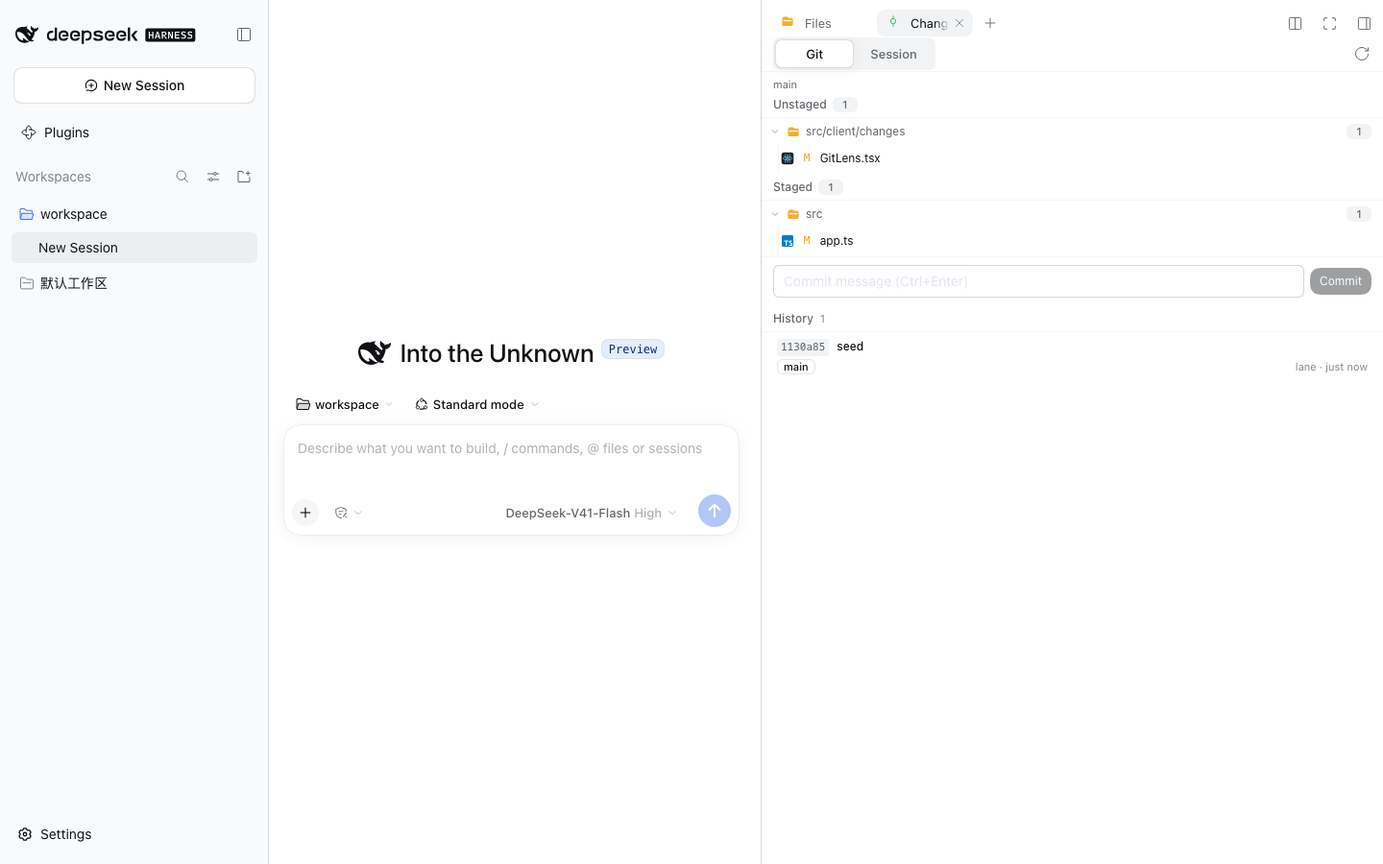
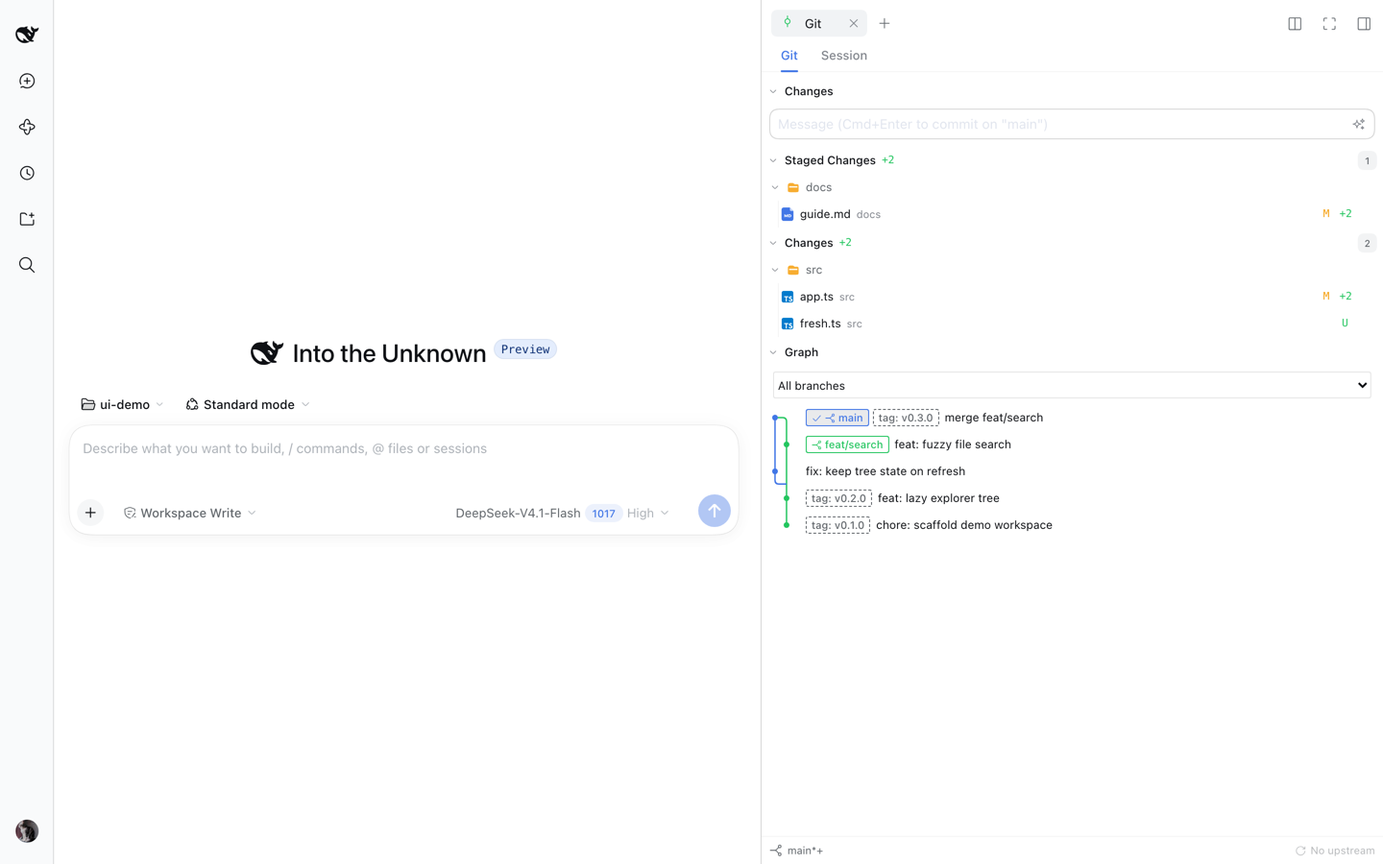
chore(release): prepare v0.28.1
- bump package.json / dsh.plugin.json / SIDEBAR_SERVICE_VERSION to 0.28.1
- CHANGELOG: 未发布 → v0.28.1; CHANGELOG_EN gains the v0.28.1 summary
- README / README_ZH: install commands target 0.28.1; Recent Updates
  trimmed to v0.28.1 / v0.28.0 / v0.27.0; Git screenshot alt + tags note
- refresh docs/screenshots/files-tree.png and changes-tree.png from a
  neutral demo workspace (git colors + tag pills in the commit graph)
- AGENTS + external-plugin-guide: current stable version is v0.28.1

diff --git a/src/client/service.ts b/src/client/service.ts
@@ -836,7 +836,7 @@ export function matchUrlTarget(tabs: readonly TabDescriptor[], url: URL): TabDes
  * The plugin version this service instance reports. Keep in lockstep with
  * `package.json`'s version — `tests/service.spec.ts` asserts the pair.
  */
-export const SIDEBAR_SERVICE_VERSION = '0.28.0'
+export const SIDEBAR_SERVICE_VERSION = '0.28.1'
 
 /**
  * Monotonic capability list consumers use to gate new API usage (features

diff --git a/README.md b/README.md
@@ -22,7 +22,7 @@
 
 | | |
 |---|---|
-| **🗂 File Management**<br/>Lazy-loading tree, git status colors, live directory watch, global search, drag-and-drop upload, multi-select batch actions, dual-source "Open with" menu.<br/><img alt="File tree with git colors" src="./docs/screenshots/files-tree.png" /><br/><img alt="Context menu: Open with + Zip and download" src="./docs/screenshots/files-menu-openwith.png" /> | **🌿 Git**<br/>Source Control (Merge / Staged / Changes groups, message box with Generate, branch + sync footer) plus a this-session AI-changes lens, with a **read-only commit graph** (lanes, ref badges, branch filter, commit details) in one tab.<br/><img alt="Git: hierarchical tree" src="./docs/screenshots/changes-tree.png" /> |
+| **🗂 File Management**<br/>Lazy-loading tree, git status colors, live directory watch, global search, drag-and-drop upload, multi-select batch actions, dual-source "Open with" menu.<br/><img alt="File tree with git colors" src="./docs/screenshots/files-tree.png" /><br/><img alt="Context menu: Open with + Zip and download" src="./docs/screenshots/files-menu-openwith.png" /> | **🌿 Git**<br/>Source Control (Merge / Staged / Changes groups, message box with Generate, branch + sync footer) plus a this-session AI-changes lens, with a **read-only commit graph** (lanes, branch and tag badges, branch filter, commit details) in one tab.<br/><img alt="Git: changes and commit graph with tags" src="./docs/screenshots/changes-tree.png" /> |
 | **📝 Editable Editor & Previews**<br/>An editable CodeMirror (the stock preview is read-only), Markdown + Mermaid + floating outline, sandboxed HTML preview, `.jsonl` record cards, paged preview for huge files, streaming transfers with no size caps.<br/><img alt="Markdown + Mermaid preview" src="https://github.com/user-attachments/assets/fe0e5182-55bb-45cc-b98b-a2877c2bdd38" /> | **🧩 Tasks**<br/>Live subagent topology (workflow graph / tree modes) + background task list: exit codes, live output, force-kill.<br/><img alt="Tasks: subagent topology" src="https://github.com/user-attachments/assets/dcd8ed2f-59fa-405b-937b-2d250f5034dd" /> |
 | **💬 Side Chat (beta)**<br/>Codex-style side threads: inherit the full parent context and run independently, realtime push, visible & revocable queue, per-thread model selection, one-click promotion to a top-level session.<br/><img alt="Side Chat" src="https://github.com/user-attachments/assets/3a338c36-f5de-4000-95f3-4b1cd04f60fc" /> | **🖥 Bottom Workbench**<br/>A self-drawn bottom panel that coexists with the native right sidebar: drag-to-split panes, multiple terminal tabs, per-session persisted layout.<br/><img alt="Dual workbench" src="https://github.com/user-attachments/assets/dfdb875e-a1a8-4d4b-8340-353736b1708f" /> |
 
@@ -44,14 +44,14 @@ dsh plugin --profile web add dsh-better-sidebar@latest
 
 Then **hard-refresh the browser** (Cmd/Ctrl+Shift+R). Requires DSH **0.2.1-rc.1+**.
 
-> **Compatibility warning — match the plugin to the host line.** As of 2026-10-26, DSH's npm `latest` is **0.2.1-rc.2**, so the command above installs the compatible v0.28.0. Hosts still on **0.2.0-rc.2** must pin `dsh-better-sidebar@0.26.1` (and should upgrade the host to `0.2.1-rc.2` first); DSH 0.2.1-alpha.5 users must pin `dsh-better-sidebar@0.28.0-alpha.0`. The marketplace installer picks the plugin's `latest` regardless of host version, so an old host gets a version-rejection error — upgrade the host or pin the version explicitly. The two packages' `latest` tags are independent.
+> **Compatibility warning — match the plugin to the host line.** As of 2026-10-26, DSH's npm `latest` is **0.2.1-rc.2**, so the command above installs the compatible v0.28.1. Hosts still on **0.2.0-rc.2** must pin `dsh-better-sidebar@0.26.1` (and should upgrade the host to `0.2.1-rc.2` first); DSH 0.2.1-alpha.5 users must pin `dsh-better-sidebar@0.28.0-alpha.0`. The marketplace installer picks the plugin's `latest` regardless of host version, so an old host gets a version-rejection error — upgrade the host or pin the version explicitly. The two packages' `latest` tags are independent.
 
 <details>
 <summary><b>Pick the plugin version for your DSH version</b></summary>
 
 | Your DSH version | Install command |
 | --- | --- |
-| **0.2.1-rc.1+** | `dsh plugin --profile web add dsh-better-sidebar@0.28.0` |
+| **0.2.1-rc.1+** | `dsh plugin --profile web add dsh-better-sidebar@0.28.1` |
 | **0.2.1-alpha.5** | `dsh plugin --profile web add dsh-better-sidebar@0.28.0-alpha.0` |
 | **0.2.0-rc.2** | `dsh plugin --profile web add dsh-better-sidebar@0.26.1` |
 | **0.2.0-rc.1** | `dsh plugin --profile web add dsh-better-sidebar@0.24.1` |
@@ -70,12 +70,12 @@ Always pin **exact versions** for older releases (`latest` moves forward with ea
 
 ```text
 Install the dsh-better-sidebar plugin (a sidebar workbench for DSH):
-1. Confirm DSH is 0.2.1-rc.1 or newer, then run dsh plugin --profile web add dsh-better-sidebar@0.28.0
+1. Confirm DSH is 0.2.1-rc.1 or newer, then run dsh plugin --profile web add dsh-better-sidebar@0.28.1
 2. Remind me to hard-refresh the browser (Cmd/Ctrl+Shift+R) afterwards
 If something fails, check the FAQ table in https://github.com/omdsh-dev/DSH-better-sidebar README first.
 ```
 
-**One-line script** — clone this repo and run `bash scripts/install.sh 0.28.0` (macOS / Linux / Windows Git Bash; `./scripts/install.ps1 -Version 0.28.0` for native Windows). It handles installation + bundle registration.
+**One-line script** — clone this repo and run `bash scripts/install.sh 0.28.1` (macOS / Linux / Windows Git Bash; `./scripts/install.ps1 -Version 0.28.1` for native Windows). It handles installation + bundle registration.
 
 **Updating**: just re-run the install command, then hard-refresh the browser.
 
@@ -92,27 +92,27 @@ If something fails, check the FAQ table in https://github.com/omdsh-dev/DSH-bett
 | **Two sidebars** on the page | Double mounting. Remove the legacy manual mount line (`- insert: ... better-sidebar ...`) from `~/.dsh/profiles/web/cordis.patch.yml`; aggregate packages mounting this package under a different id are auto-yielded, no action needed. |
 | Settings values gone after upgrade | Since DSH 0.1.7, preferences live on this plugin's mount row in the profile (default entry id `better-sidebar`). The plugin migrates your old `settings.yaml` values once on first start and never overwrites newer values. |
 | Terminal unavailable | Terminals are provided by **DSH itself** (this plugin ships no PTY) — see DSH docs; "host provides no terminal capability" in the bottom terminal means this deployment has no terminal controller mounted. |
-| `dsh: command not found` | Install DSH first; or use `npx -y --package @deepseek-ai/dsh@0.2.1-rc.1 dsh plugin --profile web add dsh-better-sidebar@0.28.0`. |
+| `dsh: command not found` | Install DSH first; or use `npx -y --package @deepseek-ai/dsh@0.2.1-rc.1 dsh plugin --profile web add dsh-better-sidebar@0.28.1`. |
 
 </details>
 
 ## 🆕 Recent Updates
 
+**v0.28.1 — UX and reliability patch**
+
+- **Silent wrong-file writes are gone**: tab reconciliation now covers tabs in background sessions, and worktree sessions use one address base — a renamed/deleted file is no longer re-created on the next save, and a chat link never opens a same-named file from another checkout
+- **Host crash guard**: pathological `git status` output is capped with a latch and a process-tree kill, turning "host dies with `RangeError`" into one failed SCM refresh
+- **Git page**: histories with more than 1,000 branches load again; tags now decorate commits, rows and details, and tag changes invalidate pagination
+- **Editor**: saving after an mtime-only change no longer deadlocks on `fs-conflict`; the reading position survives tab re-seating; “Add to conversation” lands as a compact reference chip and never flattens earlier chips
+- **Markdown links**: local destinations normalize Windows backslashes, so `C:\ws\_analysis\report.md` opens instead of a bare ENOENT
+- **Sidebar**: the bottom-workbench toggle stays visible while the right panel is open; the macOS dock fallback avoids the traffic lights; a content-stable tab scope ends needless full-file re-reads; closing a side-chat tab archives its session
+
 **v0.28.0 — stable plugin release for DSH 0.2.1-rc.1+**
 
 - Move all 13 DSH peer floors to `^0.2.1-rc.1`; retain the alpha.0 functionality without runtime changes
 - The upstream alpha.5 → rc.1 full-tree diff contains 355 files, all `package.json`; no source changes
-- v0.28.0 will replace this plugin’s npm `latest`, even while DSH’s `latest` remains 0.2.0-rc.2; old hosts must pin the versions in the table above
-- RC validation is pending; see the [RC adaptation record](./docs/plans/2026-10-17-dsh-0.2.1-rc.1-adaptation.md). Earlier alpha test counts are not RC evidence
-
-**v0.28.0-alpha.0 (prerelease)**
-
-- Adapt to DSH **0.2.1-alpha.5+**: use native Connection admission for HTTP/WS and remove the retired invariant companion and dependency
-- Files, Git, terminals and newly created side chats follow the session’s current working directory
-- The commit graph fills the available Git-panel height and adapts to the diff preview and window size
-- Optional dsh-context diagnostic shortcuts in agent details, background-job output windows and the session header appear only when the Context entry is available
-- **DSH 0.2.0-rc.2 users stay on npm-published v0.26.1**; v0.27.0 has not been published. Use the explicit alpha version above, not `latest`
-- Validation history: [DSH alpha.5 adaptation record](./docs/plans/2026-10-16-dsh-0.2.1-alpha.5-adaptation.md) (before the latest dev integration; not the final release test counts)
+- DSH 0.2.0-rc.2 hosts stay on plugin v0.26.1; DSH 0.2.1-alpha.5 hosts stay on v0.28.0-alpha.0
+- Validation: [RC adaptation record](./docs/plans/2026-10-17-dsh-0.2.1-rc.1-adaptation.md)
 
 **v0.27.0** - full release history at [Releases](https://github.com/omdsh-dev/DSH-better-sidebar/releases) · [CHANGELOG](./CHANGELOG_EN.md)
 
@@ -120,11 +120,6 @@ If something fails, check the FAQ table in https://github.com/omdsh-dev/DSH-bett
 - **Accurate change tracking**: separate staged/unstaged counts, nested-repository discovery, session-relative paths, PTC file operations and long polling
 - **Selection stays in place**: fixed the integration regression that displaced selected files and drew stray borders; added real-host layout coverage
 - **Side Chat**: new child sessions seed from the latest summarizing compaction instead of copying the full parent log
-
-**v0.26.1** — full release history at [Releases](https://github.com/omdsh-dev/DSH-better-sidebar/releases) · [CHANGELOG](./CHANGELOG_EN.md)
-
-- ⚡ **Fixed the steady-state cost behind "fine on 0.24, then it got slow"** (community reports: the sidebar turns laggy after being open a long time, DSH turns laggy after many turns, a restart clears it for a while; an artifact-level A/B puts the line at v0.25.0): both 500 ms timers are now visibility-gated (the host right-panel state is one shared module-level poller; the blank-session fallback only runs while it actually renders), the per-tab 5 s session-root poll became **one per session and only while visible**, the file-tree watch and side-chat push stop when parked, `keepMounted` keeps its semantics while every cache/registry is now bounded, and the host cwd resolver gained in-flight dedupe with a 3 s → 15 s TTL
-- 📊 Measured in the real mount lane (4 visited tabs, 15 s idle window): live 500 ms timers **3 → 1**, live 5 s timers **5 → 0**, `session.cwd` requests **15 → 0**, hit tests **1,620 → 0**, forced layouts **5,190 → 30**
 
 ## 🔌 Plugin Ecosystem
 

diff --git a/README_ZH.md b/README_ZH.md
@@ -22,7 +22,7 @@
 
 | | |
 |---|---|
-| **🗂 文件管理**<br/>懒加载目录树、Git 变更着色、实时 watch 刷新、全局搜索、拖拽上传、多选批量操作、「打开方式」双源菜单。<br/><img alt="文件树（Git 着色）" src="./docs/screenshots/files-tree.png" /><br/><img alt="右键菜单：打开方式 + 打包下载" src="./docs/screenshots/files-menu-openwith.png" /> | **🌿 Git**<br/>Source Control（Merge / Staged / Changes 三组、带 Generate 的消息框、分支与同步底栏）+ 本轮 AI 改动视角合一，并在同一页签内给出**只读提交图**（泳道、引用徽章、分支筛选、提交详情）。<br/><img alt="Git：层级树" src="./docs/screenshots/changes-tree.png" /> |
+| **🗂 文件管理**<br/>懒加载目录树、Git 变更着色、实时 watch 刷新、全局搜索、拖拽上传、多选批量操作、「打开方式」双源菜单。<br/><img alt="文件树（Git 着色）" src="./docs/screenshots/files-tree.png" /><br/><img alt="右键菜单：打开方式 + 打包下载" src="./docs/screenshots/files-menu-openwith.png" /> | **🌿 Git**<br/>Source Control（Merge / Staged / Changes 三组、带 Generate 的消息框、分支与同步底栏）+ 本轮 AI 改动视角合一，并在同一页签内给出**只读提交图**（泳道、分支与 tag 徽章、分支筛选、提交详情）。<br/><img alt="Git：变更与带 tag 的提交图" src="./docs/screenshots/changes-tree.png" /> |
 | **📝 可编辑编辑器与预览**<br/>可编辑的 CodeMirror（官方预览是只读）、Markdown + Mermaid + 浮动目录、HTML 沙箱预览、`.jsonl` 记录卡片、超大文件分页预览、传输无大小上限。<br/><img alt="Markdown + Mermaid 预览" src="https://github.com/user-attachments/assets/fe0e5182-55bb-45cc-b98b-a2877c2bdd38" /> | **🧩 任务管理**<br/>子代理拓扑实时预览（工作流图 / 树双模式）+ 后台任务清单：退出码、实时输出、强制终止。<br/><img alt="任务页：子代理拓扑" src="https://github.com/user-attachments/assets/dcd8ed2f-59fa-405b-937b-2d250f5034dd" /> |
 | **💬 侧边对话（beta）**<br/>Codex 风格侧边线程：继承主会话完整上下文独立运行、实时推送、排队可见可撤回、每个线程独立选模型、一键提升为顶层会话。<br/><img alt="侧边对话" src="https://github.com/user-attachments/assets/3a338c36-f5de-4000-95f3-4b1cd04f60fc" /> | **🖥 底部工作台**<br/>自绘底部面板与原生右侧栏同时展开：拖拽分栏、多终端页签、按会话持久化布局。<br/><img alt="双工作台" src="https://github.com/user-attachments/assets/dfdb875e-a1a8-4d4b-8340-353736b1708f" /> |
 
@@ -44,14 +44,14 @@ dsh plugin --profile web add dsh-better-sidebar@latest
 
 装完**硬刷新浏览器**（Cmd/Ctrl+Shift+R）即可。要求 DSH **0.2.1-rc.1+**。
 
-> **兼容性警告：插件版本必须与宿主线匹配。** 截至 2026-10-26，DSH 的 npm `latest` 是 **0.2.1-rc.2**，上方命令安装的 v0.28.0 与之兼容。仍停留在 **0.2.0-rc.2** 的宿主必须固定 `dsh-better-sidebar@0.26.1`（并建议先升级宿主到 `0.2.1-rc.2`）；DSH 0.2.1-alpha.5 用户固定 `dsh-better-sidebar@0.28.0-alpha.0`。市场安装器按插件的 `latest` 安装、不按宿主版本选版本，旧宿主会收到版本拒绝错误——请升级宿主或显式固定版本。两个包的 `latest` 标签不是同一支持线。
+> **兼容性警告：插件版本必须与宿主线匹配。** 截至 2026-10-26，DSH 的 npm `latest` 是 **0.2.1-rc.2**，上方命令安装的 v0.28.1 与之兼容。仍停留在 **0.2.0-rc.2** 的宿主必须固定 `dsh-better-sidebar@0.26.1`（并建议先升级宿主到 `0.2.1-rc.2`）；DSH 0.2.1-alpha.5 用户固定 `dsh-better-sidebar@0.28.0-alpha.0`。市场安装器按插件的 `latest` 安装、不按宿主版本选版本，旧宿主会收到版本拒绝错误——请升级宿主或显式固定版本。两个包的 `latest` 标签不是同一支持线。
 
 <details>
 <summary><b>按 DSH 版本选插件版本</b></summary>
 
 | 你的 DSH 版本 | 安装命令 |
 | --- | --- |
-| **0.2.1-rc.1+** | `dsh plugin --profile web add dsh-better-sidebar@0.28.0` |
+| **0.2.1-rc.1+** | `dsh plugin --profile web add dsh-better-sidebar@0.28.1` |
 | **0.2.1-alpha.5** | `dsh plugin --profile web add dsh-better-sidebar@0.28.0-alpha.0` |
 | **0.2.0-rc.2** | `dsh plugin --profile web add dsh-better-sidebar@0.26.1` |
 | **0.2.0-rc.1** | `dsh plugin --profile web add dsh-better-sidebar@0.24.1` |
@@ -70,12 +70,12 @@ dsh plugin --profile web add dsh-better-sidebar@latest
 
 ```text
 帮我安装 dsh-better-sidebar 插件（DSH 侧边栏工作台），步骤：
-1. 先确认 DSH 为 0.2.1-rc.1 或更新版本，再执行 dsh plugin --profile web add dsh-better-sidebar@0.28.0
+1. 先确认 DSH 为 0.2.1-rc.1 或更新版本，再执行 dsh plugin --profile web add dsh-better-sidebar@0.28.1
 2. 完成后提醒我硬刷新浏览器（Cmd/Ctrl+Shift+R）
 遇到报错先查 https://github.com/omdsh-dev/DSH-better-sidebar README 的常见问题表。
 ```
 
-**一键脚本**——克隆本仓库后执行 `bash scripts/install.sh 0.28.0`（macOS / Linux / Windows Git Bash；Windows 原生用 `./scripts/install.ps1 -Version 0.28.0`），自动完成安装 + bundle 注册。
+**一键脚本**——克隆本仓库后执行 `bash scripts/install.sh 0.28.1`（macOS / Linux / Windows Git Bash；Windows 原生用 `./scripts/install.ps1 -Version 0.28.1`），自动完成安装 + bundle 注册。
 
 **更新**：重跑一次安装命令即可，然后硬刷新浏览器。
 
@@ -92,27 +92,27 @@ dsh plugin --profile web add dsh-better-sidebar@latest
 | 页面出现**两个侧边栏** | 双挂载。删掉 `~/.dsh/profiles/web/cordis.patch.yml` 里旧的手动挂载行（`- insert: ... better-sidebar ...`）；聚合包以不同 id 挂载本包时会自动退让，无需处理。 |
 | 升级后设置页的值去哪了 | DSH 0.1.7 起偏好写在 profile 里本插件的挂载行上（默认 entry id `better-sidebar`），插件首次启动会把旧 `settings.yaml` 里的配置一次性回迁，不会覆盖新设的值。 |
 | 终端无法使用 | 终端由 **DSH 自身**提供（本插件不自带 PTY），请查 DSH 侧文档；底部终端显示「宿主未提供终端能力」= 这个部署没挂终端控制器。 |
-| 提示 `dsh: command not found` | 先安装 DSH；或用 `npx -y --package @deepseek-ai/dsh@0.2.1-rc.1 dsh plugin --profile web add dsh-better-sidebar@0.28.0`。 |
+| 提示 `dsh: command not found` | 先安装 DSH；或用 `npx -y --package @deepseek-ai/dsh@0.2.1-rc.1 dsh plugin --profile web add dsh-better-sidebar@0.28.1`。 |
 
 </details>
 
 ## 🆕 最近更新
 
+**v0.28.1 — UX 与可靠性补丁**
+
+- **不再静默写错文件**：页签调解覆盖后台会话，worktree 会话统一地址基准——改名/删除的已打开文件不会被下一次保存重建，聊天链接也不会静默打开另一检出的同名文件
+- **宿主崩溃防护**：病态 `git status` 输出加了闩锁与进程树终止，「宿主 `RangeError` 崩溃」降为一次 SCM 刷新失败
+- **Git 页**：>1000 分支的历史恢复加载；tag 现在装饰提交行与详情，tag 变化会使旧分页失效
+- **编辑器**：仅 mtime 变化后保存不再死锁 `fs-conflict`；刷新后保留阅读位置；「添加到对话」落地为紧凑引用 chip，不再展平已有 chip
+- **Markdown 链接**：本地 destination 的 Windows 反斜杠归一，`C:\ws\_analysis\report.md` 不再报裸 ENOENT
+- **侧栏**：右栏展开时底部工作台入口常显；macOS 兜底入口避开红绿灯；页签 scope 按内容稳定，消除无谓的整文件重读；关闭侧聊页签时归档其会话
+
 **v0.28.0 — 面向 DSH 0.2.1-rc.1+ 的插件正式版**
 
 - 13 条 DSH peer 下限前移到 `^0.2.1-rc.1`，沿用 alpha.0 的功能实现，不增加运行时改动
 - 上游 alpha.5 → rc.1 完整树差异共 355 个文件，全部为 `package.json`，源码零变化
-- v0.28.0 即将接管插件 npm `latest`，但宿主 `latest` 仍为 0.2.0-rc.2；旧宿主必须按上表固定旧插件版本
-- RC 验证待执行，见 [RC 适配记录](./docs/plans/2026-10-17-dsh-0.2.1-rc.1-adaptation.md)；不把历史 alpha 测试统计当作 RC 验证证据
-
-**v0.28.0-alpha.0（预发布）**
-
-- 适配 DSH **0.2.1-alpha.5+**：HTTP/WS 改用宿主 Connection admission，移除已废弃的 invariant companion 与依赖
-- 会话执行目录变化时，文件 / Git / 终端与新建侧边对话跟随当前目录
-- 提交图使用 Git 面板完整可用高度，随差异预览和窗口大小自动调整
-- Agent 详情、后台任务输出窗和会话标题栏提供可选 dsh-context 诊断入口，仅在 Context 入口可用时显示
-- **0.2.0-rc.2 用户留在 npm 已发布的 v0.26.1**；v0.27.0 尚未发布，alpha 请用上方精确版本命令，不要用 `latest`
-- 验证历史：[DSH alpha.5 适配记录](./docs/plans/2026-10-16-dsh-0.2.1-alpha.5-adaptation.md)（合入最新 dev 之前的证据，不代表最终发布测试统计）
+- DSH 0.2.0-rc.2 宿主固定插件 v0.26.1；DSH 0.2.1-alpha.5 宿主固定 v0.28.0-alpha.0
+- 验证：[RC 适配记录](./docs/plans/2026-10-17-dsh-0.2.1-rc.1-adaptation.md)
 
 **v0.27.0** - 完整发布历史见 [Releases](https://github.com/omdsh-dev/DSH-better-sidebar/releases) · [CHANGELOG](./CHANGELOG.md)
 
@@ -120,11 +120,6 @@ dsh plugin --profile web add dsh-better-sidebar@latest
 - **变更追踪修正**：暂存和未暂存行数分离、嵌套仓库发现、按会话解析路径、PTC 文件操作可见与长轮询
 - **选中行不再错位**：修复整合时引入的文件行漂移和异常边框，新增真实挂载布局回归
 - **侧边对话**：从最近一次 summarizing compaction 构造子会话，不再全量复制父日志
-
-**v0.26.1** — 完整发布历史见 [Releases](https://github.com/omdsh-dev/DSH-better-sidebar/releases) · [CHANGELOG](./CHANGELOG.md)
-
-- ⚡ **修掉「0.24 没问题、之后越用越卡」的稳态开销**（社区反馈：侧栏在前台开久了卡、多轮对话后 DSH 卡、重启又暂时好；分界线经产物级 A/B 落在 v0.25.0）：两个 500ms 表按可见性门控（右侧面板展开态改全模块一条共享表、空白会话兜底入口只在真的渲染时起表）、每 tab 的 5s 会话根轮询收敛成**每会话一条且只在可见时**、文件树 watch 与侧聊推送 parked 即停、`keepMounted` 保留语义但缓存与记账全部有界、宿主 cwd 解析加在飞去重且 TTL 3s→15s
-- 📊 真机实测（4 个访问过的页签、15s 空闲窗）：活着的 500ms 表 **3→1**、5s 表 **5→0**、`session.cwd` 请求 **15→0**、命中测试 **1620→0**、强制布局 **5190→30**
 
 ## 🔌 插件生态
 

diff --git a/docs/external-plugin-guide.md b/docs/external-plugin-guide.md
@@ -2,8 +2,8 @@
 
 > 面向 **消费插件开发者**：如何让你的插件向 better-sidebar 注册新的侧边栏页面（tab）和文件类型预览器。
 >
-> 适用版本：**v0.4.0+**（`ctx.betterSidebar` 服务）；声明式设置 **v0.4.1+**；text/number 设置行 **v0.11.0+**；badge/生命周期/定向打开/插件设置/版本探测 **v0.12.0+**；select 设置行（`settingSelect`）与外链认领（`urlTarget`）**v0.13.0+**；统一 `@deepseek-ai/cordis` 类型基底 **v0.15.2+**；路由前缀安全解析（`hostRouteUrl`）**v0.25.0+**。当前版本 **v0.28.0 正式版**（13 条 DSH peer 下限 `^0.2.1-rc.1`，仅支持 DSH **0.2.1-rc.1+**；0.2.1-alpha.5 请固定 v0.28.0-alpha.0，0.2.0-rc.2 请固定 v0.26.1（v0.27.0 尚未发布），0.2.0-rc.1 请用 v0.24.1，0.1.7 线请用 v0.22.1——caret 范围跨 minor 不成立，`^0.1.7-rc.1` 会被 0.2.0 宿主的启动预检静默禁用）。**v0.19.0 移除了自绘右侧面板与自由窗口**（见 §0、§11）；**自 v0.20.0 开发线起**（**注意：0.20.0 从未发布到 npm，这些变更全部落在 v0.21.1**）插件**移除了自带的终端**（宿主 0.1.6 的 `ui-sidebar-terminal` 取代，见 §4.4）、**移除了终端固定（pin）**，并在 0.1.7 上**把浏览器视图与只读文件预览整体让给宿主**（`ui-sidebar-browser` / `ui-sidebar-documentpreview`，见 §4.4、§5.4）、**收敛了外链接管**（见 §4.1）、**重写了设置接入面**（`SettingsForms`，见 §8.2）、**给文件树加了实时刷新**（见 §10）；同时**删除了轮尾产物行接管**（DSH 0.1.6 把 `conversation.chat.turnTail` 从 chain 改成只能追加的 list，替换语义不复存在）。
-> **正式版发布提醒**：v0.28.0 即将接管插件 npm `latest`，而宿主 npm `latest` 仍为 0.2.0-rc.2，不能据此判断兼容。旧 rc.2 宿主必须固定插件 v0.26.1；旧 alpha.5 固定 v0.28.0-alpha.0。用户已接受此标签分离，发布 workflow 不变。
+> 适用版本：**v0.4.0+**（`ctx.betterSidebar` 服务）；声明式设置 **v0.4.1+**；text/number 设置行 **v0.11.0+**；badge/生命周期/定向打开/插件设置/版本探测 **v0.12.0+**；select 设置行（`settingSelect`）与外链认领（`urlTarget`）**v0.13.0+**；统一 `@deepseek-ai/cordis` 类型基底 **v0.15.2+**；路由前缀安全解析（`hostRouteUrl`）**v0.25.0+**。当前版本 **v0.28.1 正式版**（13 条 DSH peer 下限 `^0.2.1-rc.1`，仅支持 DSH **0.2.1-rc.1+**；0.2.1-alpha.5 请固定 v0.28.0-alpha.0，0.2.0-rc.2 请固定 v0.26.1（v0.27.0 尚未发布），0.2.0-rc.1 请用 v0.24.1，0.1.7 线请用 v0.22.1——caret 范围跨 minor 不成立，`^0.1.7-rc.1` 会被 0.2.0 宿主的启动预检静默禁用）。**v0.19.0 移除了自绘右侧面板与自由窗口**（见 §0、§11）；**自 v0.20.0 开发线起**（**注意：0.20.0 从未发布到 npm，这些变更全部落在 v0.21.1**）插件**移除了自带的终端**（宿主 0.1.6 的 `ui-sidebar-terminal` 取代，见 §4.4）、**移除了终端固定（pin）**，并在 0.1.7 上**把浏览器视图与只读文件预览整体让给宿主**（`ui-sidebar-browser` / `ui-sidebar-documentpreview`，见 §4.4、§5.4）、**收敛了外链接管**（见 §4.1）、**重写了设置接入面**（`SettingsForms`，见 §8.2）、**给文件树加了实时刷新**（见 §10）；同时**删除了轮尾产物行接管**（DSH 0.1.6 把 `conversation.chat.turnTail` 从 chain 改成只能追加的 list，替换语义不复存在）。
+> **版本对照提醒**：当前正式版为 **v0.28.1**（DSH 0.2.1-rc.1+；宿主 npm `latest` 已为 0.2.1-rc.2）。仍停留在 DSH 0.2.0-rc.2 的宿主必须固定插件 v0.26.1；DSH 0.2.1-alpha.5 固定 v0.28.0-alpha.0。市场安装器按插件 `latest` 安装、不按宿主版本选版本。
 > 本次 alpha.5 → rc.1 上游完整树差异 355 项全部为 `package.json`、源码零变化，因此不改功能实现；伴随依赖为 Cordis peer `^4.0.5` / dev `4.0.5`、group `1.0.5`、schemastery `~3.18.5`、include `1.0.10`。RC 验证单独记录于 [适配记录](plans/2026-10-17-dsh-0.2.1-rc.1-adaptation.md)，不以已发布 alpha 的测试数字替代。
 > 权威代码：`src/client/service.ts`（服务实现）、`src/client/builtins/`（内置 6 tab + 3 viewer 参考实现）、`lib/types/client/service.d.ts`（类型声明）。
 > alpha.5 已删除 `@deepseek-ai/dsh-invariants` 与上游 `/invariant` 子路径；本插件同步移除 invariant companion，不提供替代注册服务。HTTP/WS 准入遵循宿主 Connection（见 §6.2）。

diff --git a/CHANGELOG_EN.md b/CHANGELOG_EN.md
@@ -4,9 +4,18 @@
 >
 > 📝 The Chinese [CHANGELOG](./CHANGELOG.md) is the authoritative, item-by-item record; this file carries the English summaries and has historically lagged behind it. Where the two disagree, the Chinese one is current.
 
+### v0.28.1
+
+- **No more silent wrong-file writes**: tab reconciliation now reaches tabs opened in **background sessions**, and a worktree session resolves chat links against **one address base**. Renaming or deleting an open file no longer re-creates the old path on the next save, and a relative link inside a linked worktree no longer silently opens a same-named file from another checkout ([#915](https://github.com/omdsh-dev/DSH-better-sidebar/issues/915), [#947](https://github.com/omdsh-dev/DSH-better-sidebar/issues/947), [#950](https://github.com/omdsh-dev/DSH-better-sidebar/issues/950), [#952](https://github.com/omdsh-dev/DSH-better-sidebar/issues/952)).
+- **Host crash guard for pathological git output**: the bounded `runGit` reader now latches after the byte cap, destroys both stdio streams and kills the process tree, and budgets stderr too. A pathological worktree can no longer take the whole host down with `RangeError: Invalid string length` ([#999](https://github.com/omdsh-dev/DSH-better-sidebar/pull/999)).
+- **Git page**: histories with more than 1,000 branches load again ([#1013](https://github.com/omdsh-dev/DSH-better-sidebar/issues/1013)). **Tags now decorate commits, rows and details** — lightweight and annotated, with their own inventory budget and pagination fingerprint, without consuming the branch limit ([#983](https://github.com/omdsh-dev/DSH-better-sidebar/issues/983)).
+- **Editor**: saving after an mtime-only change (a `touch`, `git checkout` or formatter rewrite of identical content) no longer deadlocks on `fs-conflict`; “Reload from disk” adopts the fresh baseline in place and keeps the draft ([#1059](https://github.com/omdsh-dev/DSH-better-sidebar/issues/1059)). The reading position survives tab re-seating ([#965](https://github.com/omdsh-dev/DSH-better-sidebar/pull/965)). “Add to conversation” now lands as a compact reference chip and never flattens earlier chips ([#1002](https://github.com/omdsh-dev/DSH-better-sidebar/pull/1002), [#1052](https://github.com/omdsh-dev/DSH-better-sidebar/pull/1052)).
+- **Markdown links**: local destinations normalize Windows backslashes, so `C:\ws\_analysis\report.md` opens instead of a bare ENOENT ([#1037](https://github.com/omdsh-dev/DSH-better-sidebar/issues/1037)).
+- **Sidebar**: the bottom-workbench toggle stays visible while the right panel is open ([#989](https://github.com/omdsh-dev/DSH-better-sidebar/issues/989)); the macOS dock fallback avoids the window controls instead of pinning itself to the top-left corner ([#992](https://github.com/omdsh-dev/DSH-better-sidebar/issues/992)); a content-stable tab scope ends needless full-file re-reads ([#1057](https://github.com/omdsh-dev/DSH-better-sidebar/pull/1057)); closing a side-chat tab archives its session instead of leaving a copy behind ([#942](https://github.com/omdsh-dev/DSH-better-sidebar/issues/942)).
+- **Package**: export the `dsh-better-sidebar/icon` subpath so other packages can resolve `icon.svg` through `exports` ([#1016](https://github.com/omdsh-dev/DSH-better-sidebar/issues/1016)).
+
 ### v0.28.0
 
-- **Export the plugin icon subpath**: add the `dsh-better-sidebar/icon` package entry so other packages can resolve `icon.svg` through `exports`.
 - **Stable plugin support moves to DSH 0.2.1-rc.1+**: all 13 DSH peer floors are `^0.2.1-rc.1`; development dependencies, CI and installers pin the exact RC baseline. No runtime compatibility layer or feature implementation changes are introduced.
 - **Retain the published alpha's functionality**: the upstream alpha.5 → rc.1 full source-tree diff contains 355 files, all `package.json`, with no source changes. This release updates versions, dependency declarations and documentation only. Companion versions are Cordis peer `^4.0.5` / dev `4.0.5`, group `1.0.5`, schemastery `~3.18.5`, and unchanged include `1.0.10`.
 - **Move to npm `latest`**: v0.28.0 will take over the plugin's `latest` tag through the existing stable-version workflow; no workflow change is needed. **DSH's own `latest` still points to 0.2.0-rc.2 and cannot run this release**: pin plugin **v0.26.1** on that host. DSH 0.2.1-alpha.5 users pin **v0.28.0-alpha.0**; earlier support-line guidance is unchanged. The user explicitly accepted the independent tags' compatibility risk.

diff --git a/AGENTS.md b/AGENTS.md
@@ -42,7 +42,7 @@
 
 - **当前基线 DSH 0.2.1-rc.1（v0.28.0 正式版起）**。13 条 `@deepseek-ai/dsh-*` peer 下限均为 `^0.2.1-rc.1` 浮动 caret 范围、**绝不钉精确版本**（只有 devDependencies 精确钉）；本包不声明 `package.json#engines.dsh`，因此走 peer 兼容性检查；宿主对声明了该字段的包优先且仅按它判定，不读 peer。`dsh.plugin.json#engines.dsh` 不参与这一规则。`tests/market-manifest.spec.ts` 钉住这条形状。
 - **0.x caret 不跨 minor，但可跨 patch**：`^0.1.7-rc.1` 对 `0.2.0-rc.1` 判定为 false → 整行 `disabled`、插件静默不加载。**抬基线必须同批抬 peer 下限。**
-- 支持线（用户侧）：DSH **0.2.1-rc.1+** 使用插件 **v0.28.0**；0.2.1-alpha.5 用户固定 **v0.28.0-alpha.0**；0.2.0-rc.2 用户固定 **v0.26.1**（v0.27.0 尚未发布）；0.2.0-rc.1 用户固定 v0.24.1；0.1.7 线的最后支持版是 **v0.22.1**（v0.23.0 从未发布到 npm）。按本仓库先例**不写运行时兼容层**。
+- 支持线（用户侧）：DSH **0.2.1-rc.1+** 使用插件 **v0.28.1**；0.2.1-alpha.5 用户固定 **v0.28.0-alpha.0**；0.2.0-rc.2 用户固定 **v0.26.1**（v0.27.0 尚未发布）；0.2.0-rc.1 用户固定 v0.24.1；0.1.7 线的最后支持版是 **v0.22.1**（v0.23.0 从未发布到 npm）。按本仓库先例**不写运行时兼容层**。
 - **抬基线动作清单**：① `pnpm peers check`，把失配的传递 peer 提升进 devDependencies；② 扫宿主包产物的**裸 import 差集**（`pnpm peers check` 看不到这类失败，0.1.7 线是 `zustand` / `immer`）；③ 对消费的宿主包做类型面 diff（重点 `ui-primitives` / `dsh-session` / `sidebar-right`），确认导出只增不减；④ 复查会话格式版本、`SUBAGENT_DESCRIPTOR_VERSION`、web profile 的 inject 列表；⑤ 同批同步 CI 钉版、`scripts/e2e-common.sh`、**`scripts/install.sh` / `scripts/install.ps1`（随包发布、会直接给用户 npx 命令）** 与 README / 指南的版本行。
 - **用户 profile 自己的 `overrides: '@deepseek-ai/dsh-*'` 要同批抬**，否则旧包遮蔽 bundle → 预检禁用 `config-editor` → `settings` 行永久 `pending`；先看宿主日志的 `disabling profile plugin row` 与 `pending (waiting for service: …)`。
 - **沿用 alpha.5 的删除契约**：不再依赖 `@deepseek-ai/dsh-invariants`、`ctx.invariants` 或上游 `/invariant` 子路径，也不发布本插件的 invariant companion；HTTP/WS 准入统一调用 `ctx.connection.requestRejection(req)`，仅 `undefined` 放行，不恢复 `webRuntime` / 自建信任例外。

diff --git a/CHANGELOG.md b/CHANGELOG.md
@@ -2,7 +2,7 @@
 
 > 本文档收录 dsh-better-sidebar 的完整发布历史（最新版摘要见 [README](README_ZH.md)；同步发布于 [GitHub Releases](https://github.com/omdsh-dev/DSH-better-sidebar/releases)）。
 
-### 未发布
+### v0.28.1
 
 - **runGit 输出上限加固**（#999）：字节封顶后的 chunk 一律丢弃（闩锁）、超时/封顶路径统一销毁 stdio 并 SIGKILL 进程树、stderr 纳入同一预算；病态工作区的结果从「宿主 `RangeError` 崩溃」降为「一次 SCM 刷新失败」。
 - **worktree 会话的根选择与地址基准**（#956 / #947 / #950 / #952）：同一会话不再有两个基准——聊天链接按会话 header cwd 解析、打开/保存不再二次拼接，linked worktree 里也不再静默读到另一检出的同名文件。
